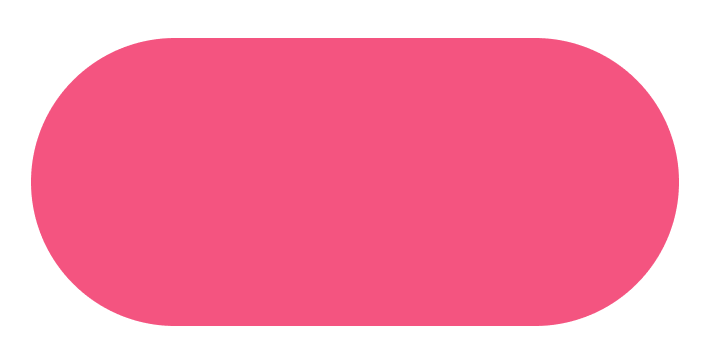
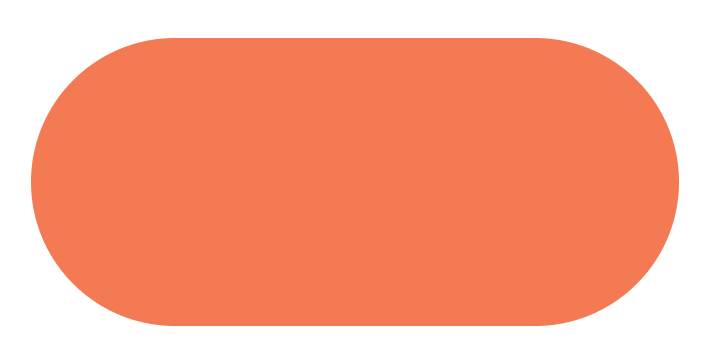
[*] updated brand color for dashboard

diff --git a/vpn/qml/widgets/dapqml-widgets/DapQmlSwitch.qml b/vpn/qml/widgets/dapqml-widgets/DapQmlSwitch.qml
@@ -49,7 +49,7 @@ Item {
     property bool checked: false
 
     /// @brief show loading animation
-    property bool loading: true //!enabled
+    property bool loading: !enabled
 
     /// @brief widget qss style
     property string qss
@@ -175,7 +175,7 @@ Item {
                     id: progressCircle
                     property string color: "#000000"
                     property int strokeWidth: 5
-                    qss: "c-brand"
+                    qss: "c-dashboard-accent" // "c-brand"
                 }
 
                 Shape {

diff --git a/vpn/qml/widgets/dapqml-widgets-asset/brand/KelVPN/style.css b/vpn/qml/widgets/dapqml-widgets-asset/brand/KelVPN/style.css
@@ -195,6 +195,11 @@
     color: "@background";
 }
 
+.c-dashboard-accent
+{
+    color: "#F47A54";
+}
+
 /****************************************************
  * Aligns
  ***************************************************/
